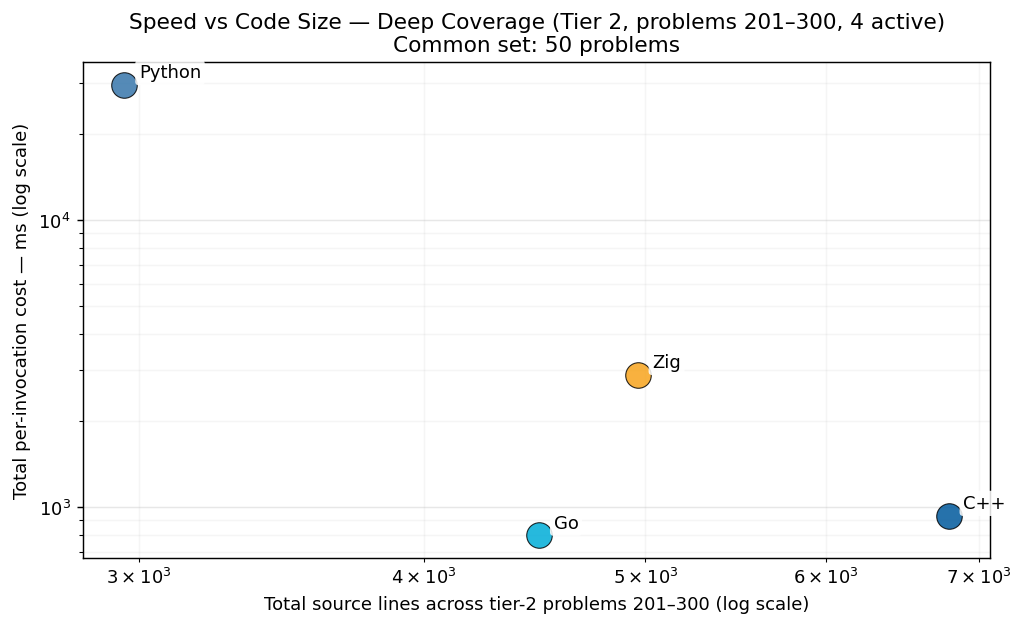
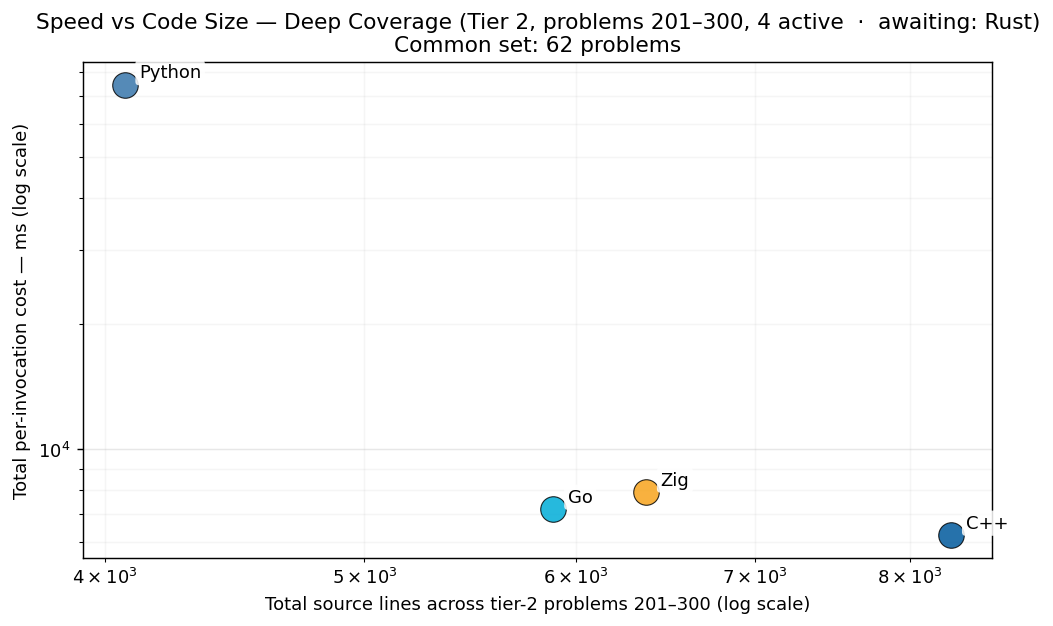
publish: tier-2 now shows 5 designated langs (Rust added, awaiting 50% coverage to enter active set + common-set)

diff --git a/RESULTS.md b/RESULTS.md
@@ -1,6 +1,6 @@
 # Project Euler — Cross-Language Benchmarks
 
-> **Scope: 2400 in-scope cells across 300 problems × tiered languages — 2336 measured (97.3% coverage).**
+> **Scope: 2500 in-scope cells across 300 problems × tiered languages — 2344 measured (93.8% coverage).**
 > The cross-language ranking below is computed over the **199-problem common set** (problems in 1-200 where every language has a passing measurement) — the apples-to-apples Foundation comparison surface.  Per-tier rankings and coverage detail appear further below.
 > Growing carefully — each new problem and language is audited for state-leak
 > safety, verified for answer correctness, and added only when it cleanly fits the
@@ -42,20 +42,22 @@ How much code does each language need to solve these 200 Foundation problems, an
 
 ![Speed vs Code Size](charts/per_iter_speed_vs_size.png)
 
-## Deep Coverage — Tier 2 (4 languages, problems 201-300)
+## Deep Coverage — Tier 2 (5 languages, problems 201-300)
 
-Same per-invocation metric, restricted to the deeper subset of languages (C++, Go, Zig, Python) that intentionally pushed past problem 200. The other 6 Foundation languages are out of tier scope here — they're capped at 200 by the project's language-cap policy (see JOURNEY.md).
+Same per-invocation metric, restricted to the deeper subset of languages (C++, Go, Python, Rust, Zig) that intentionally pushed past problem 200. The other 5 Foundation languages are out of tier scope here — they're capped at 200 by the project's language-cap policy (see JOURNEY.md).
 
-### Per-Invocation Cost (Common Set, 54 of 100 problems)
+### Per-Invocation Cost (Common Set, 62 of 100 problems)
+
+_Common set computed over the **4 active** tier-2 langs_ _(C++, Go, Python, Zig);_ _awaiting: Rust (below 50% coverage threshold). Common set will tighten once awaited langs reach majority coverage in tier 2._
 
 ![Per-Invocation Cost — Tier 2](charts/per_iter_total_tier2.png)
 
-| Rank | Language | Total (54-problem common set) | Lines of code | vs Fastest |
+| Rank | Language | Total (62-problem common set) | Lines of code | vs Fastest |
 |------|----------|--------------------:|--------------:|-----------:|
-| 1 | **Go** | 3.25 s | 4,985 | 1.00× |
-| 2 | **C++** | 3.58 s | 7,282 | 1.10× |
-| 3 | **Zig** | 5.11 s | 5,380 | 1.57× |
-| 4 | **Python** | 54.73 s | 3,392 | 16.84× |
+| 1 | **C++** | 6.23 s | 8,288 | 1.00× |
+| 2 | **Go** | 7.19 s | 5,884 | 1.15× |
+| 3 | **Zig** | 7.90 s | 6,373 | 1.27× |
+| 4 | **Python** | 74.51 s | 4,067 | 11.96× |
 
 ### Speed vs Code Size
 
@@ -98,7 +100,7 @@ Split across 3 pages, one per 100-problem band, so this main page stays navigabl
 |------|------|-----------|------|
 | p001–p100 | Foundation | 10 | [Open](per_problem/per_problem_001-100.md) |
 | p101–p200 | Foundation | 10 | [Open](per_problem/per_problem_101-200.md) |
-| p201–p300 | Deep Coverage | 4 | [Open](per_problem/per_problem_201-300.md) |
+| p201–p300 | Deep Coverage | 5 | [Open](per_problem/per_problem_201-300.md) |
 
 ## Method
 
